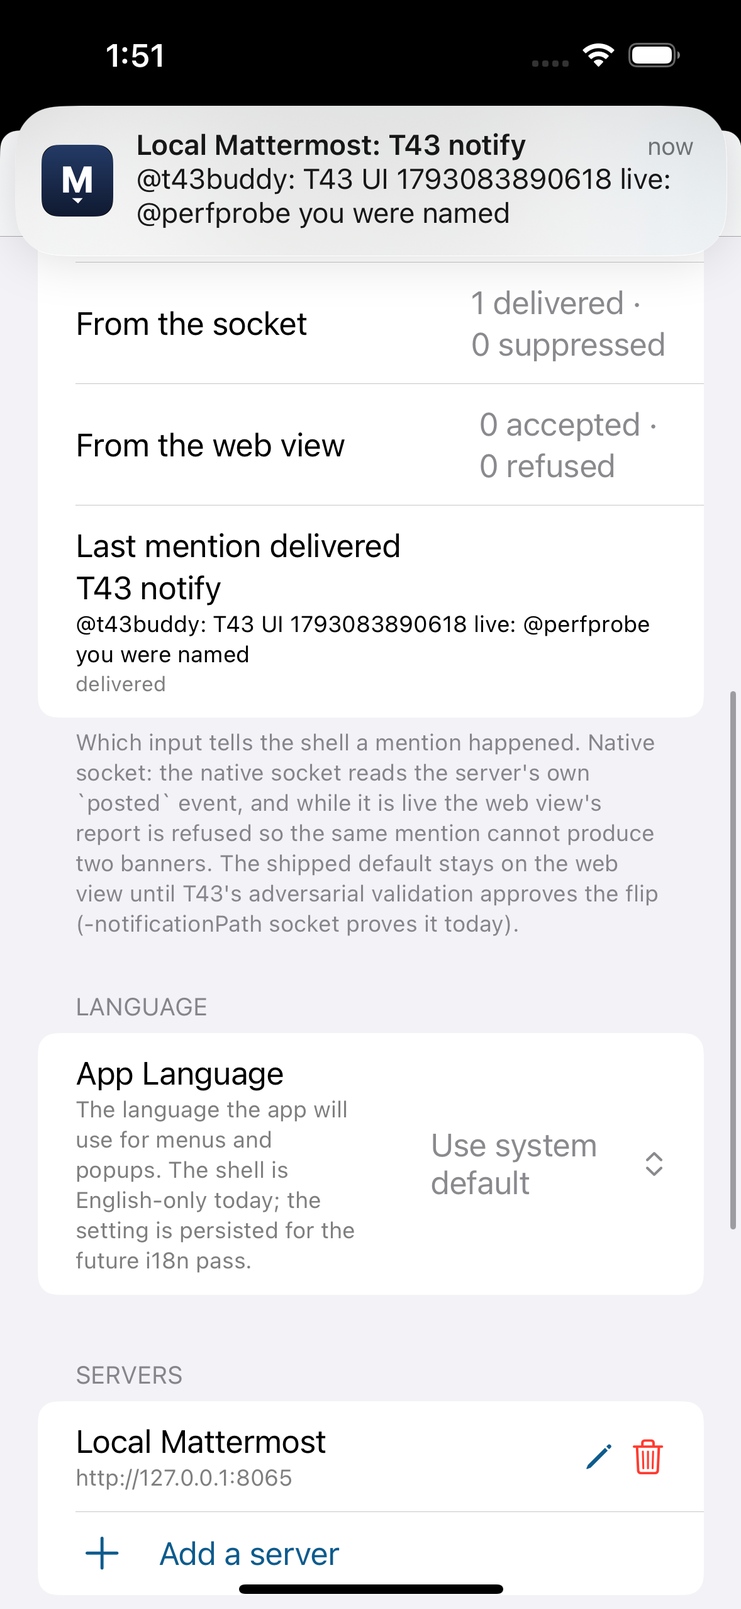
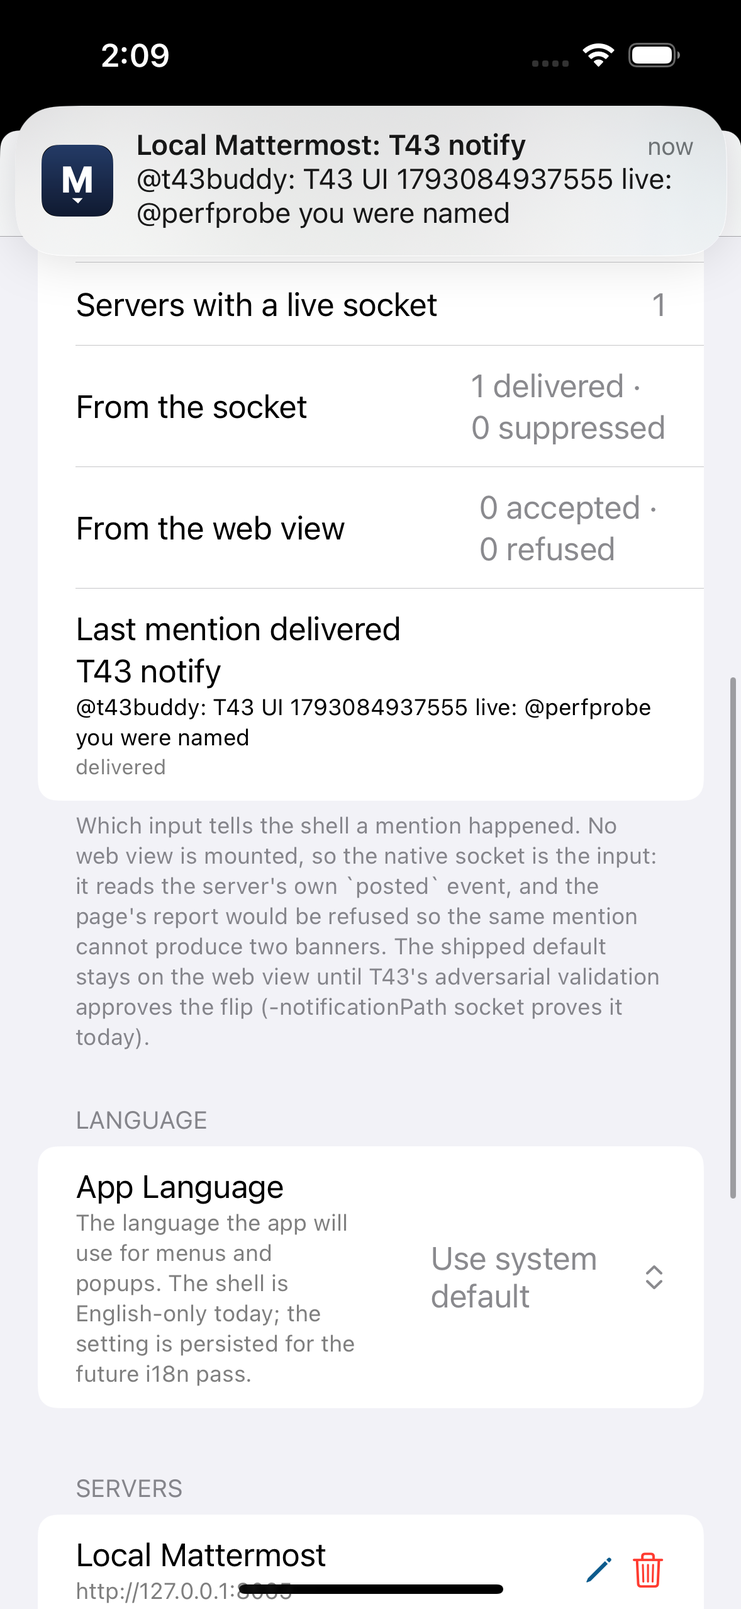
docs(t43): record the dual-render rule and the bug the live run caught
Build note §3a states the measurement (socket-first + webview mounted = `delivered=0
suppressed=1`, zero banners), why the page is the input while it draws the pane, and the
two tests that pin it. Evidence table updated to what the runs printed: 58 T43 unit tests
(37 + 21), Catalyst 1,483 run / 4 skipped / 0 failed, live 3/3 and 7/7 with T42. Parity
row: the gate's two measurements, the same counts, and `notificationPath.webPanes`.
`docs/t43-shots/t43-dual-render.png` is exported from that run's own attachment.

diff --git a/docs/parity.md b/docs/parity.md
@@ -104,7 +104,7 @@ These rows have no single desktop module to replace: they are the **native data 
 | **T41** native user profile, presence and custom status (S24 profile popover + full profile, status setter, custom status, DM shortcut, auto-away) | `UI/Native/Profile/`: `ProfileModels.swift` (**pure**, no I/O — `MMUserProfile` (the `GET /users/{id}` decode, including `props.customStatus` decoded **twice** because it is a JSON string on the wire), `UserCustomStatus` + `isActive` (the Go zero time `0001-01-01T00:00:00Z` means *never expires*, not "expired in year 1"), `MMUserTimezone` (the string `"true"`/`"false"` `useAutomaticTimezone`), `UserPresence`/`UserStatusSnapshot` (the four wire values, `manual`, `dnd_end_time`, and a socket patch that keeps what a `status_change` frame does not carry), `StatusDuration` (the server's own vocabulary + expiry arithmetic, including "today"/"this week" ending at their period), `CustomStatusBody` (the flat write with the future `expires_at` the server demands) + `CustomStatusDraft` (validation copy), `CustomStatusEmoji`, `ProfileRoleLabel`, `AutoAwayRule`, `DMShortcut`, `ProfileDateFormat` (every string, with an injectable clock/locale/zone)), `ProfileAPI.swift` (`GET /users/{id}`, `POST /users/ids`, `PUT /users/{id}/status`, `PUT|DELETE /users/{id}/status/custom`, `POST /channels/direct`, `GET /users/{id}/profile_image` through `APIClient` so a 401 reaches re-auth and an `AsyncImage` never needs the token), `ProfileService.swift` (`ProfileServing` seam + session implementation), `ProfileViewModel.swift` (profile **and** presence read in parallel, "fetched, never invented" failure state, optimistic presence/custom-status writes with rollback, the DM shortcut, the `status_change`/`user_updated` socket patch, and the **presence refresh loop**), `ProfileCoordinator.swift` (one model per (server, user) with an LRU of 6, the per-server presence memory, the rail's single-socket fan-in, and the auto-away pass that remembers **the server's answer to its own write**), `ProfileView.swift` (sheet + screen: avatar bytes or initials, name/@username, presence row, custom-status pill, role badges, the fact rows — position, nickname, email, local time, activity, member-since — "Send message", the setter/custom-status entry points, banner/error/retry), `StatusSetterView.swift` (the four statuses + DND clear-after picker, and the custom-status editor with its palette, text, duration, validation and clear; both are **pushes on the sheet's own stack**, never nested sheets — T40-AV measured a nested sheet whose confirm never ran). Host wiring: `ChannelView`'s `nativeProfileButton` + the shared item-bound profile sheet, `PostRowView`'s tappable author avatar (`post.<id>.avatar`, inert while the surface resolves web), `MattermostApp`'s `ProfileCoordinator` + the `scenePhase` → auto-away trigger (`.background` only; `.inactive` is the app switcher, not absence), and `MMStatus.dndEndTime` (`dnd_end_time`, epoch ms). Fixtures/probes: `scripts/t41_profile_seed.py` (the `t41-profile` channel, the second **human** account `t41buddy` and its post, and the probe account reset to `online` with no custom status), `scripts/t41_profile_probe.py`. Gated by `-surfaceMode profile=native`. Evidence: `docs/t41-build-note.md`, `docs/t41-profile-probe-2026-10-26.log` (probe exit 0 on 9.11.19 — every expectation held), **73 T41 unit tests** (`MattermostTests/T41ProfileTests.swift` 65 + `T41ProfileAPITests.swift` 8; the full Catalyst suite is **1,379** run / 4 skipped / 0 failed, `build/logs/t41r-units2.log`), the live suite `MattermostUITests/T41ProfileUITests` (**7 run / 0 skipped / 0 failed** on 2026-10-26 — iPhone 16 Pro, iOS 18.3.1, `build/logs/t41-suite7.log`, after `t41-suite6.log` also 7/7; 7/7 again for T41-R, `build/logs/t41r-suite1.log`; the seven are auto-away, the DND write, the custom status, my own presence through the socket with the batch poll pushed to 120 s, a colleague's presence through the batch poll, the server's own identity in the popover, and the DM shortcut. Shots in `docs/t41-shots/` are exported from that run's own attachments, and one of them is what caught the doubled DND list the tests could not see — `docs/t41-build-note.md` §5.2, §6 F7). Identifiers: `nativeProfileButton`, `post.<postID>.avatar`, `profileSheet`, `profile.done` / `.loading` / `.name` / `.username` / `.presence` / `.customStatus` / `.roles` / `.localTime` / `.lastActive` / `.joined` / `.position` / `.nickname` / `.email` / `.avatar` / `.message` / `.messageReason` / `.setStatus` / `.customStatusRow` / `.clearStatus` / `.banner` / `.error` / `.retry`, `statusSetter` + `.option.<online\|away\|dnd\|offline>` / `.current` / `.dnd.<duration>` / `.done` / `.custom` / `.clear` / `.banner`, `customStatus.editor` + `.emoji.<name>` / `.text` / `.duration.<duration>` / `.expiry` / `.validation` / `.banner` / `.save` / `.clear` / `.cancel`. | native ✅ (T41) behind the flag. **A correction to this card's own premise, measured, not assumed**: the server addresses `status_change` with `broadcast.user_id` = the account that **changed** (`app/platform/status.go`), so a peer's presence never arrives over the socket — a raw client that provably receives another account's team-scoped `posted` receives no `status_change` for it (measured together in one 12 s window — `scripts/t41_profile_probe.py` §5; T41-AV reproduced the pair with its own control). An open profile therefore re-reads `POST /users/status/ids` every 15 s while it is open (cancelled when the sheet closes), which is also how the web client learns a colleague's presence; `status_change` is what keeps **my own** status live across my devices, and the live suite measures the two halves separately. Limits that stay: no editing of the profile (name/username/email/picture/position is S28's `edit_profile`, custom attributes S39), no "common channels" list inside the popover (the sidebar is T33's), no avatar upload; peer presence is a 15 s poll while a profile is open, plus exactly one batched read each time the sheet opens — a warm, cached profile included, which is what puts a change made while the sheet was closed on screen when it opens (T41-AV measured the stale window before that read existed; the probe re-run at a 60 s poll now reads the server's value at open, `build/logs/t41r-reopen1.log`) (there is no background presence subscription, and this server's socket cannot carry one); auto-away is a manual `away`, so a deliberate `away` written by **another** client while this app is backgrounded is indistinguishable from our own on the wire and the return restores over it — any other value somebody chose (dnd, offline) is respected, and the bound is stated in the build note; auto-away is driven only by `.background`/`.active` (a Control Centre swipe no longer ages presence), and it is measured on iOS only (`XCUIDevice.press(.home)` does not exist on Catalyst, so the test **skips there by name** instead of faking it); the DND clear-after picker's write path is unit-pinned rather than live-tapped; the live fixture accounts have no picture, so the shots show the initials fallback; and nothing in this surface is available offline. |
 | **T42** native Recent Mentions inbox (S25 mentions tab) | `UI/Native/Activity/`: `ActivityModels.swift` (**pure** — `ActivityProfile` (the `GET /users/me` decode that carries `notify_props`), `MentionKeys` (upstream's derivation in upstream's order: extra keys, the case-sensitive first name when `notify_props.first_name == "true"`, `@channel`/`@all`/`@here` when `notify_props.channel == "true"`, `@username` last; `searchTerms` drops the three broadcast keys and keeps upstream's trailing space; `matches` is a whole-token match, so `@perf` is not `@perfprobe`), `ActivityChannelCursor`/`ActivityThreadUnread` (read state), `ActivityRow` (channel label, team, unread, thread-row marker, the jump it opens), `ActivityDerivation` (rows from one window with the newest-first + id-tiebreak order, the unread rule, the All/Unread filter, the counter line and empty copy, `isLiveMention` — `props.mentions` when the server sends it, the reader's own keys otherwise, never my own post — insertion/replacement, and the deduplicated markable channel ids)), `ActivityAPI.swift` (the four requests no earlier card had: `POST /posts/search` as the cross-team window, `GET /users/me` into `ActivityProfile`, `GET /users/{me}/teams/{team}/channels/members`, `POST /channels/members/{me}/mark_read`; `users(ids:)`, `channel(id:)`, `channelMember(channelID:userID:)`, `teamUnreads()`, `userThreads(unreadOnly:)` and `markThreadRead(teamID:threadID:timestamp:)` are reused rather than re-declared), `ActivityService.swift` (`ActivityServing` seam + session implementation), `MentionsViewModel.swift` (reader keys → window → channel/author context → read cursors → rows; the filter; `markRead` — thread read for a reply, channel read for a root — and `markAllRead` in one request, both applying the server's own `last_viewed_at_times`; the badge hand-off; the socket handler for `posted`/`post_edited`/`post_deleted`/`multiple_channels_viewed`/`post_unread`/`thread_read_changed`/`channel_updated`/`user_updated`), `ActivityCoordinator.swift` (one model per **server** since the window is cross-team, the rail's socket fan-in, `authPhaseChanged`, the one badge closure), `MentionsView.swift` (pane gate, header with the counter line + refresh + mark-all-read, All/Unread filter, list, row = channel line + unread dot + thread marker + "New" marker + the timeline's own `PostRowView`, empty/failure/loading, and a write-failure banner). Host wiring: `NativeTab.activity` (title "Mentions"), the tab in `NativeShellView`'s compact layout and the `shellActivityButton` sheet in the split layout, `MattermostApp`'s coordinator + socket fan-in + `authPhaseChanged`, and `SessionStore.serverBadgeInput`/`applyServerCounters` — the **one** place per-team counters become a badge (one *arithmetic*, not one *number*: the badge sums the server's per-channel `mention_count` while the pane's header counts unread rows, and the two totals differ — see the limits below), now called by both this feed and `MentionPoller`. Fixtures/probes: `scripts/t42_activity_seed.py` (channel `t42-activity`, account `t42buddy`, three root mentions + one thread reply + one post that names nobody, left unread), `scripts/t42_activity_probe.py`. Gated by `-surfaceMode activity=native`. Evidence: `docs/t42-build-note.md`, `docs/t42-activity-probe-2026-10-27.log` (**40 checks, every expectation held, exit 0** on 9.11.19 — including the two negatives the card's premise got wrong: `GET /users/me/mentions` is a **404** and `/teams//posts/search` is a 404, so the window is the bare `POST /posts/search`; and `page: 1` answers an empty `order` on the database backend), **46 T42 unit tests** (`MattermostTests/T42ActivityTests.swift` 42 + `T42ActivityAPITests.swift` 4, `build/logs/t42-units2.log`, `** TEST SUCCEEDED **`), the live suite `MattermostUITests/T42ActivityUITests` (**4 run / 0 skipped / 0 failed** on 2026-10-27 — iPhone 15 Pro, iOS 17.0.1, `build/logs/t42-ui-4.log`: the server's own mentions listed with a post that names nobody absent, mark-all-read reaching the server (`mention_count` → 0) and clearing the dot, a mention posted by another account appearing with **no tap and no refresh**, and a row opening its channel; **4/4 again after T42-R strengthened that last test** — iPhone 16 Pro, iOS 18.3.1, `build/logs/t42r-ui1.log` — which now asserts the header's label equals the server's own `display_name` for the channel *and* that `postFocus.<postID>` is absent before the tap and present after it (both mutation-checked: `build/logs/t42r-mutant1.log`, 2 failures with the comparison inverted), and four screenshots exported from that run's attachments in `docs/t42-shots/`. Identifiers: `shellActivityButton`, `nativeActivityPane`, `activity.title` / `.subtitle` / `.refresh` / `.markAllRead` / `.filter` / `.list` / `.row.<postID>` / `.empty` / `.loading` / `.error` / `.retry` / `.banner` / `.markRead.<postID>` (swipe) / `activityWebFallback`. | native ✅ (T42) behind the flag. **The card's premise was wrong twice, and both are measured rather than assumed**: `GET /users/me/mentions` does not exist (404) and neither does the empty-team search route, so the window is `POST /posts/search` with no team; and a mention post carries `"props": {}`, so the client's own key match is the shipping path for a live socket mention. A third measured fact drives the row's action: reading a **channel** leaves a **thread's** `unread_mentions` untouched, so a reply's dot comes from `…/threads?unread=true` and its action is a thread read, while a root post's action is a channel read (Mattermost has no read-up-to-a-post route — checked against 9.11's `api4/channel.go`). Limits that stay: the scope line says "mentions, replies, unread threads", but the window is a mentions-only `POST /posts/search` over the reader's personal keys — a reply or an unread thread that names nobody never appears (T42-AV measured a buddy reply naming nobody: absent, while the server reported 12 unread threads / 11 unread mentions; upstream's Recent-mentions screen behaves the same), so this is the mentions inbox, not everything unread; the window is the server's one search window (`per_page` 60, up to three pages only when a server says `has_next`; a database backend never pages), so a very busy account sees one window of the newest mentions with no "load more" — and `per_page` is **not honoured** by that backend (`per_page: 200` answers the same 89 rows as 60, measured), so "the newest 60" is the request's size, not the server's window; the client's `include_deleted_channels: true` puts mentions from **archived** channels in the feed (95 rows against 89 without it in one run — they resolve and render, and tapping one was not exercised); the pane's header "N unread" and the app badge are **two different numbers on purpose** — the header counts unread rows (channel-cursor roots plus reply rows whose thread still reports `unread_mentions`) while the badge is the server's per-channel `mention_count` summed by `SessionStore` (measured 17 against a badge of 7; 10 against 5 in an earlier run); a **single reply** row's "mark read" clears its dot and lowers the header count (13 → 12) but changes no badge number and no server total (2 → 2), because 9.11.19 recomputes a channel's `mention_count` on a channel read and not on a thread read — so "marking read updates the counts and the app badge" holds only for mark-all-read and for root rows; a root row's "mark read" marks its whole channel read (the swipe label says so) and `mark_all_read` therefore empties the window for every channel it touches; no in-app notification toast/snackbar (upstream's `in_app_notification` — this is the inbox, not the push surface, which stays T14's worker); no "clear all", no jump-to-first-unread, no per-row mute; nothing here is available offline; and the feed is live only while the app runs — a mention that arrives while the app is suspended appears on the next load. Measured, not hidden: posting in a channel moves the **author's** cursor to that post, so my own posts read themselves (`docs/t42-build-note.md` §5 F1 — the first UI run's unread assertion was vacuous until the control post moved to the buddy account). |
 
-| **T43** one live mention input per server (notification-input convergence) | `UI/Native/Notification/`: `NotificationInputRouting.swift` (**pure** — `NotificationInputMode` (`.bridge` shipped default / `.socket`), the gate `acceptsBridge`/`acceptsSocket` per **server** (the webview is refused only while *that* server's socket is live, so a server whose socket is down still gets the page's banners), the live-socket set, and the per-input counters the Settings read-out shows), `NotificationPathStore.swift` (the switch, resolved the way this repo resolves surfaces: `-notificationPath socket\|bridge\|native\|web` → persisted debug override → compile default `.bridge`; release builds ignore the debug rows), `MentionNotificationPolicy.swift` (the **server's own** decision, not a local guess: account `notify_props.desktop ∈ {all, mention, none}`, channel-member `desktop` override, `ignore_channel_mentions ∈ {all, root, never}`, `desktop_sound` → silent, DM/GM rules, own post / deleted / system post drops, and a whole-token key match **including** `@channel`/`@all`/`@here` when `notify_props.channel == "true"` — `ActivityDerivation.isLiveMention` is the *inbox* rule and deliberately excludes the broadcast keys), `MentionLedger.swift` (**one** per-server high-water mark + one 500-id ring for **both** inputs, under T14's persisted key; `merge` unions instead of replacing, so a socket event that lands during an in-flight poll is not lost), `NativeNotificationFeed.swift` (the native input: consumes the rail's `posted` events, applies the policy, builds the **same** `MentionNotification` the bridge builds, delivers through `NotificationWorker.presentMention`, coalesces one badge read per burst and hands the server's counters to `SessionStore.serverBadgeInput` rather than incrementing anything locally, keeps a 20-entry diagnostic ring), `NotificationInputSection.swift` (the Settings read-out — a section, not a screen). Host wiring: `NotificationWorker` owns the routing dependency + a channel-context value and its **foreground suppression is per channel** (`visibleChannel` → `.channel(id)` / `.noChannel` / `.unknown`; `.unknown`, i.e. the webview pane, keeps T8's conservative server-wide rule); `MentionPoller` writes/reads the shared ledger and emits the socket-shaped notification; `TeamSidebarCoordinator` exposes one **pre-scope** event seam (`onServerEvent`) — a mention in another team is still a mention of the reader, and `TeamSocketScope` would drop exactly those — plus `onSocketStateChange`; `WebViewContainer.handleNotifyMention` refuses the page's frame while the native socket is live (the one check that makes a dual-render run produce one banner) and counts the refusal; `MattermostApp` owns both objects, binds the seams, installs the service factory, and resolves a tapped mention and a deep link to the same `NativeLocation`. `ActivityModels.MentionKeys.matchesIncludingBroadcasts` is new; `matchedKey` is untouched. Fixtures/probes: `scripts/t43_notification_seed.py` (accounts `perfprobe`/`t43buddy`, channels `t43-notify`, `t43-muted` with `mark_unread: mention`), `scripts/t43_notification_probe.py`. Gated by `-notificationPath socket`. Evidence: `docs/t43-build-note.md`, `docs/t43-notification-probe-2026-10-27.log` (**9 checks, exit 0** on 9.11.19 — including the two facts nothing local could decide: a mention in a **muted** channel still moves the server's `mention_count` (so mute is not consulted for a real mention), and a `posted` post carries **`props: {}`**, so the reader's own text keys are the shipping path), **55 T43 unit tests** (`MattermostTests/T43NotificationInputTests.swift` 35 + `T43NativeNotificationFeedTests.swift` 20, `build/logs/t43-units1.log`/`t43-units4.log`; the full Catalyst suite is **1,480 run / 4 skipped / 0 failed**, `build/logs/t43-catalyst-full2.log`), the live suite `MattermostUITests/T43NotificationUITests` (**2 run / 0 skipped / 0 failed** on 2026-10-27 against the real server at `127.0.0.1:8065` — iPhone 15 Pro, iOS 17.0.1, `build/logs/t43-live4.log`; **6/6 with T42's four in the same run**, `build/logs/t43-live5.log`, so the shared mentions models did not regress), and `docs/t43-shots/t43-native-mention.png` — one frame with the iOS banner ("Local Mattermost: T43 notify … @perfprobe you were named") above "From the socket: 1 delivered · 0 suppressed" / "From the web view: 0 accepted · 0 refused" / "Last mention delivered … delivered". Identifiers: `notificationPath.mode` / `.liveSockets` / `.socket` (`delivered=… suppressed=… mentions=… posts=…`) / `.bridge` (`accepted=… refused=…`) / `.lastMention` (`post=… channel=… outcome=…`), opened from `settingsToolbarButton` inside `settingsView`. | native ✅ (T43) behind the flag. **The flip is not taken**: the shipped default stays the webview bridge (`NotificationPathStore.compileDefault`), and `-notificationPath socket` is the proof path until T43's `-AV` approves the default — flipping it is that one constant plus the Settings footer copy. Limits that stay: no APNs and no push proxy, so the native input is a socket while the app runs plus T14's `BGAppRefreshTask` poll while it is backgrounded, and a mention arriving while the app is *suspended* appears on the next background refresh (Option A remains the plan of record on this host); upstream's `in_app_notification` toast is **not** ported (a mention in another channel while the app is foreground produces a *system* notification, which is what the screenshot shows); `desktop_threads`/"follow thread" is not modelled — a reply that names me is delivered because it is a `posted` post carrying my key, but a reply that names nobody is not; the policy **reads** `notify_props.desktop` and `ignore_channel_mentions` and there is no screen to change them (T40's channel settings does not offer notification preferences); a **muted DM** is dropped by the policy but was not separately measured on 9.11.19 (only the muted channel's mention was); text matching is the shipping path (§ above), so a post that spells my username inside a code block notifies — the server's own client does the same; the read-out is diagnostic only (counters reset per launch, the last-mention ring keeps 20); and nothing here is available offline. |
+| **T43** one live mention input per server (notification-input convergence) | `UI/Native/Notification/`: `NotificationInputRouting.swift` (**pure** — `NotificationInputMode` (`.bridge` shipped default / `.socket`), the gate `acceptsBridge`/`acceptsSocket` per **server** from two measurements (**which pane is mounted**: a webview pane makes the *page* the input and silences the socket, because only the page can see which channel is on screen — measured, the socket-first design produced `delivered=0 suppressed=1`, i.e. **no** banner under dual-render; and **which sockets are live**: a native pane with a dead socket still falls back to the page, so a mention is never lost), the live-socket and web-pane sets, and the per-input counters the Settings read-out shows), `NotificationPathStore.swift` (the switch, resolved the way this repo resolves surfaces: `-notificationPath socket\|bridge\|native\|web` → persisted debug override → compile default `.bridge`; release builds ignore the debug rows), `MentionNotificationPolicy.swift` (the **server's own** decision, not a local guess: account `notify_props.desktop ∈ {all, mention, none}`, channel-member `desktop` override, `ignore_channel_mentions ∈ {all, root, never}`, `desktop_sound` → silent, DM/GM rules, own post / deleted / system post drops, and a whole-token key match **including** `@channel`/`@all`/`@here` when `notify_props.channel == "true"` — `ActivityDerivation.isLiveMention` is the *inbox* rule and deliberately excludes the broadcast keys), `MentionLedger.swift` (**one** per-server high-water mark + one 500-id ring for **both** inputs, under T14's persisted key; `merge` unions instead of replacing, so a socket event that lands during an in-flight poll is not lost), `NativeNotificationFeed.swift` (the native input: consumes the rail's `posted` events, applies the policy, builds the **same** `MentionNotification` the bridge builds, delivers through `NotificationWorker.presentMention`, coalesces one badge read per burst and hands the server's counters to `SessionStore.serverBadgeInput` rather than incrementing anything locally, keeps a 20-entry diagnostic ring), `NotificationInputSection.swift` (the Settings read-out — a section, not a screen). Host wiring: `NotificationWorker` owns the routing dependency + a channel-context value and its **foreground suppression is per channel** (`visibleChannel` → `.channel(id)` / `.noChannel` / `.unknown`; `.unknown`, i.e. the webview pane, keeps T8's conservative server-wide rule); `MentionPoller` writes/reads the shared ledger and emits the socket-shaped notification; `TeamSidebarCoordinator` exposes one **pre-scope** event seam (`onServerEvent`) — a mention in another team is still a mention of the reader, and `TeamSocketScope` would drop exactly those — plus `onSocketStateChange`; `WebViewContainer.handleNotifyMention` refuses the page's frame while the native socket is live (the one check that makes a dual-render run produce one banner) and counts the refusal; `MattermostApp` owns both objects, binds the seams, installs the service factory, and resolves a tapped mention and a deep link to the same `NativeLocation`. `ActivityModels.MentionKeys.matchesIncludingBroadcasts` is new; `matchedKey` is untouched. Fixtures/probes: `scripts/t43_notification_seed.py` (accounts `perfprobe`/`t43buddy`, channels `t43-notify`, `t43-muted` with `mark_unread: mention`), `scripts/t43_notification_probe.py`. Gated by `-notificationPath socket`. Evidence: `docs/t43-build-note.md`, `docs/t43-notification-probe-2026-10-27.log` (**9 checks, exit 0** on 9.11.19 — including the two facts nothing local could decide: a mention in a **muted** channel still moves the server's `mention_count` (so mute is not consulted for a real mention), and a `posted` post carries **`props: {}`**, so the reader's own text keys are the shipping path), **58 T43 unit tests** (`MattermostTests/T43NotificationInputTests.swift` 37 + `T43NativeNotificationFeedTests.swift` 21, `build/logs/t43-units5.log`; the full Catalyst suite is **1,483 run / 4 skipped / 0 failed**, `build/logs/t43-catalyst-full3.log`), the live suite `MattermostUITests/T43NotificationUITests` (**3 run / 0 skipped / 0 failed** on 2026-10-27 against the real server at `127.0.0.1:8065` — iPhone 15 Pro, iOS 17.0.1, `build/logs/t43-live9.log`: the native pane delivers one mention, the shipped default's socket is inert, and the dual-render run mounts the web app next to the live socket, delivers nothing from the socket and never refuses the page; **7/7 with T42's four in the same run**, `build/logs/t43-live10.log`, so the shared mentions models did not regress), and `docs/t43-shots/t43-native-mention.png` — one frame with the iOS banner ("Local Mattermost: T43 notify … @perfprobe you were named") above "From the socket: 1 delivered · 0 suppressed" / "From the web view: 0 accepted · 0 refused" / "Last mention delivered … delivered". Identifiers: `notificationPath.mode` / `.liveSockets` / `.socket` (`delivered=… suppressed=… mentions=… posts=…`) / `.bridge` (`accepted=… refused=…`) / `.lastMention` (`post=… channel=… outcome=…`), opened from `settingsToolbarButton` inside `settingsView`. | native ✅ (T43) behind the flag. **The flip is not taken**: the shipped default stays the webview bridge (`NotificationPathStore.compileDefault`), and `-notificationPath socket` is the proof path until T43's `-AV` approves the default — flipping it is that one constant plus the Settings footer copy. Limits that stay: no APNs and no push proxy, so the native input is a socket while the app runs plus T14's `BGAppRefreshTask` poll while it is backgrounded, and a mention arriving while the app is *suspended* appears on the next background refresh (Option A remains the plan of record on this host); upstream's `in_app_notification` toast is **not** ported (a mention in another channel while the app is foreground produces a *system* notification, which is what the screenshot shows); `desktop_threads`/"follow thread" is not modelled — a reply that names me is delivered because it is a `posted` post carrying my key, but a reply that names nobody is not; the policy **reads** `notify_props.desktop` and `ignore_channel_mentions` and there is no screen to change them (T40's channel settings does not offer notification preferences); a **muted DM** is dropped by the policy but was not separately measured on 9.11.19 (only the muted channel's mention was); text matching is the shipping path (§ above), so a post that spells my username inside a code block notifies — the server's own client does the same; the read-out is diagnostic only (counters reset per launch, the last-mention ring keeps 20); and nothing here is available offline. |
 
 ## Phase status
 

diff --git a/docs/t43-build-note.md b/docs/t43-build-note.md
@@ -49,7 +49,25 @@ New directory `Mattermost/UI/Native/Notification/` (6 files, all target members 
 | `MentionNotificationPolicy.swift` | The decision `posted` → deliver/drop, from the server's own inputs: account `notify_props.desktop ∈ {all, mention, none}`, channel `notify_props.desktop`, `ignore_channel_mentions ∈ {all, root, never}`, `desktop_sound`, DM/GM rules, own post, deleted, system post, and a whole-token key match **including** `@channel`/`@all`/`@here` when `notify_props.channel == "true"`. | server `app/notification.go` `sendNotification`; mobile v2.45.0 `app/utils/notification/index.ts`. |
 | `MentionLedger.swift` | **One** per-server high-water mark (`watermarkTs` + `watermarkPostID`) and one 500-id ring, shared by both inputs; `merge` unions the ring instead of replacing it, so a socket event that lands while a poll is in flight is not lost. Persisted under the **same** key T14 used. | the dedupe T14 already shipped, now owned by both inputs. |
 | `NativeNotificationFeed.swift` | The native input: consumes the rail's `posted` events, applies the policy, builds the *same* `MentionNotification` the bridge builds, delivers through `NotificationWorker.presentMention`, coalesces one badge read per burst, keeps a bounded diagnostic ring (`lastRecord`). | mobile v2.45.0 `app/actions/websocket/posts.ts` (`posted` handling). |
-| `NotificationInputSection.swift` | The Settings read-out (a section, not a screen): which input is live, servers with a live socket, `delivered · suppressed` from the socket, `accepted · refused` from the webview, and the last mention's post/channel/outcome. | — (diagnostic surface for the `-AV` gate). |
+| `NotificationInputSection.swift` | The Settings read-out (a section, not a screen): which input is live, web-view panes mounted, servers with a live socket, `delivered · suppressed` from the socket, `accepted · refused` from the webview, and the last mention's post/channel/outcome. | — (diagnostic surface for the `-AV` gate). |
+
+### 3a. Dual-render: who is the input when the webview is mounted
+
+`NotificationInputRouting` also tracks **which servers' panes are the web app** (`WebViewContainer`
+reports mount/unmount). A mounted webview makes the **page** that server's input and silences the socket.
+
+This was not the first design, and the first design was wrong in a way only a live run could show. With
+the socket as the input and the webview mounted, a mention reached `NotificationWorker`, whose
+`visibleChannel` answers `.unknown` for a webview pane (the shell cannot see inside it), so the
+conservative T8 rule suppressed it — while the gate refused the page's own report at the same time.
+Measured on the first dual-render run: `delivered=0 suppressed=1 mentions=1` — **zero banners**, not two.
+The rule is therefore a measurement: the side that can see the screen is the input, and the other one is
+silent. It also means the flip is safe — the native socket takes over exactly when the pane is native.
+
+The unit test `testAMountedWebPaneSilencesTheSocketAndLetsThePageDeliver` drives the real
+`WebViewContainer.Coordinator` through both panes; the live test
+`testDualRenderKeepsOneSourceAndNeverRefusesThePage` mounts the real web app next to the live socket and
+asserts the socket delivered nothing and the page was never refused.
 
 Changed:
 
@@ -72,8 +90,11 @@ Fixtures and probes (both idempotent, both exit 0):
 ## 4. Decisions
 
 1. **One source, chosen at the process boundary.** `NotificationInputRouting` is the single place both
-   inputs ask "am I the input?"; the webview is refused only while *that server's* socket is live, so a
-   server whose socket is down still gets its banners from the page.
+   inputs ask "am I the input?" — the answer is per server, from two measurements the shell already has:
+   *which pane is mounted* (a webview means the page is the input, because only it can see the screen) and
+   *which sockets are live* (a native pane with a dead socket still falls back to the page, so a mention is
+   never silently lost). Both rules are one-line predicates on one value type, so they are unit-tested
+   rather than argued about.
 2. **The flip is not taken here.** The shipped default stays `.bridge`, exactly as the card requires
    (`-AV` is the architect's adversarial validation, not this card's). `-notificationPath socket` proves
    the native input today, and the Settings section is the read-out that validation will judge.
@@ -93,18 +114,21 @@ Fixtures and probes (both idempotent, both exit 0):
 
 | What | Command | Result |
 | --- | --- | --- |
-| T43 unit tests (rules) | `xcodebuild test … -only-testing:MattermostTests/T43NotificationInputTests` | **35 / 35**, `build/logs/t43-units1.log` |
-| T43 unit tests (the path, with the real worker + session store, only the server faked) | `… -only-testing:MattermostTests/T43NativeNotificationFeedTests` | **20 / 20**, `build/logs/t43-units4.log` |
-| Whole Catalyst suite (no regression in T8/T14/T42 or the bridge) | `xcodebuild test … -only-testing:MattermostTests` (Mac Catalyst) | **1480 run / 4 skipped / 0 failed**, `build/logs/t43-catalyst-full2.log` |
-| Live UI, native input + default | `TEST_RUNNER_MM_AUTH_* python3 scripts/qa-test.py --platform ios --sim id=146D23D9… --only-testing MattermostUITests/T43NotificationUITests` | **2 run / 0 skipped / 0 failed**, `build/logs/t43-live4.log` |
-| Live UI, T43 + T42 together (the shared mentions models did not regress) | same runner, both suites | **6 run / 0 skipped / 0 failed**, `build/logs/t43-live5.log` |
-| Screenshot | exported from `t43-live5`'s attachments | `docs/t43-shots/t43-native-mention.png` |
+| T43 unit tests (rules) | `xcodebuild test … -only-testing:MattermostTests/T43NotificationInputTests` | **37 / 37**, `build/logs/t43-units5.log` |
+| T43 unit tests (the path, with the real worker + session store, only the server faked) | `… -only-testing:MattermostTests/T43NativeNotificationFeedTests` | **21 / 21**, `build/logs/t43-units5.log` |
+| Whole Catalyst suite (no regression in T8/T14/T42 or the bridge) | `xcodebuild test … -only-testing:MattermostTests` (Mac Catalyst) | **1483 run / 4 skipped / 0 failed**, `build/logs/t43-catalyst-full3.log` |
+| Live UI, native pane + default + dual-render | `TEST_RUNNER_MM_AUTH_* python3 scripts/qa-test.py --platform ios --sim id=146D23D9… --only-testing MattermostUITests/T43NotificationUITests` | **3 run / 0 skipped / 0 failed**, `build/logs/t43-live9.log` |
+| Live UI, T43 + T42 together (the shared mentions models did not regress) | same runner, both suites | **7 run / 0 skipped / 0 failed**, `build/logs/t43-live10.log` |
+| Screenshots | exported from `t43-live10`'s attachments | `docs/t43-shots/t43-native-mention.png`, `docs/t43-shots/t43-dual-render.png` |
 
-The screenshot is the card's claim in one frame: an iOS banner **“Local Mattermost: T43 notify — @t43buddy:
-… @perfprobe you were named”** sitting above the read-out **“From the socket: 1 delivered · 0 suppressed”**,
-**“From the web view: 0 accepted · 0 refused”**, **“Last mention delivered … delivered”**.
+The first screenshot is the card's claim in one frame: an iOS banner **“Local Mattermost: T43 notify —
+@t43buddy: … @perfprobe you were named”** sitting above the read-out **“From the socket: 1 delivered ·
+0 suppressed”**, **“From the web view: 0 accepted · 0 refused”**, **“Last mention delivered … delivered”**.
+The second is the dual-render run: **“Web view panes mounted: 0”** is what the native run shows and the
+dual-render shot shows the web app mounted with **1 live socket, 0 delivered, 0 refused** and the footer
+explaining that the page is the input.
 
-What the two live tests actually assert (they skip, never fail, without a server):
+What the three live tests actually assert (they skip, never fail, without a server):
 
 1. `testASocketMentionReachesTheShellOnce` — launch with `-notificationPath socket`; the read-out says the
    input is **Native socket** and **1** server has a live socket (so the banner cannot be a poller); the
@@ -114,6 +138,10 @@ What the two live tests actually assert (they skip, never fail, without a server
 2. `testTheDefaultStillUsesTheWebViewInput` — launch with no flag; the read-out says **Web view bridge**;
    a fresh mention produces nothing on the socket path for 12 s and the counter stays 0 (the native input is
    inert until the flip).
+3. `testDualRenderKeepsOneSourceAndNeverRefusesThePage` — the pane host stays on the web app
+   (`app.webViews` non-empty) **and** the rail's socket is live (`liveSockets` 1, `webPanes` 1); a fresh
+   mention delivers nothing through the socket, records no delivery, and the page is never refused
+   (`refused` 0, `accepted` ≤ 1). This is the test that caught the zero-banner bug in §3a.
 
 Unit tests worth naming, because they are the card's bullet points:
 
@@ -171,7 +199,7 @@ Modified: `Mattermost/Core/{NotificationWorker,MentionPoller}.swift`,
 `Mattermost/UI/Native/Sidebar/TeamSidebarCoordinator.swift`,
 `Mattermost/UI/Native/Activity/ActivityModels.swift`, `docs/parity.md`.
 
-Identifiers the UI test drives: `notificationPath.mode`, `notificationPath.liveSockets`,
-`notificationPath.socket` (`delivered=… suppressed=… mentions=… posts=…`),
+Identifiers the UI test drives: `notificationPath.mode`, `notificationPath.webPanes`,
+`notificationPath.liveSockets`, `notificationPath.socket` (`delivered=… suppressed=… mentions=… posts=…`),
 `notificationPath.bridge` (`accepted=… refused=…`), `notificationPath.lastMention`
 (`post=… channel=… outcome=…`), inside `settingsView` (opened from `settingsToolbarButton`).
